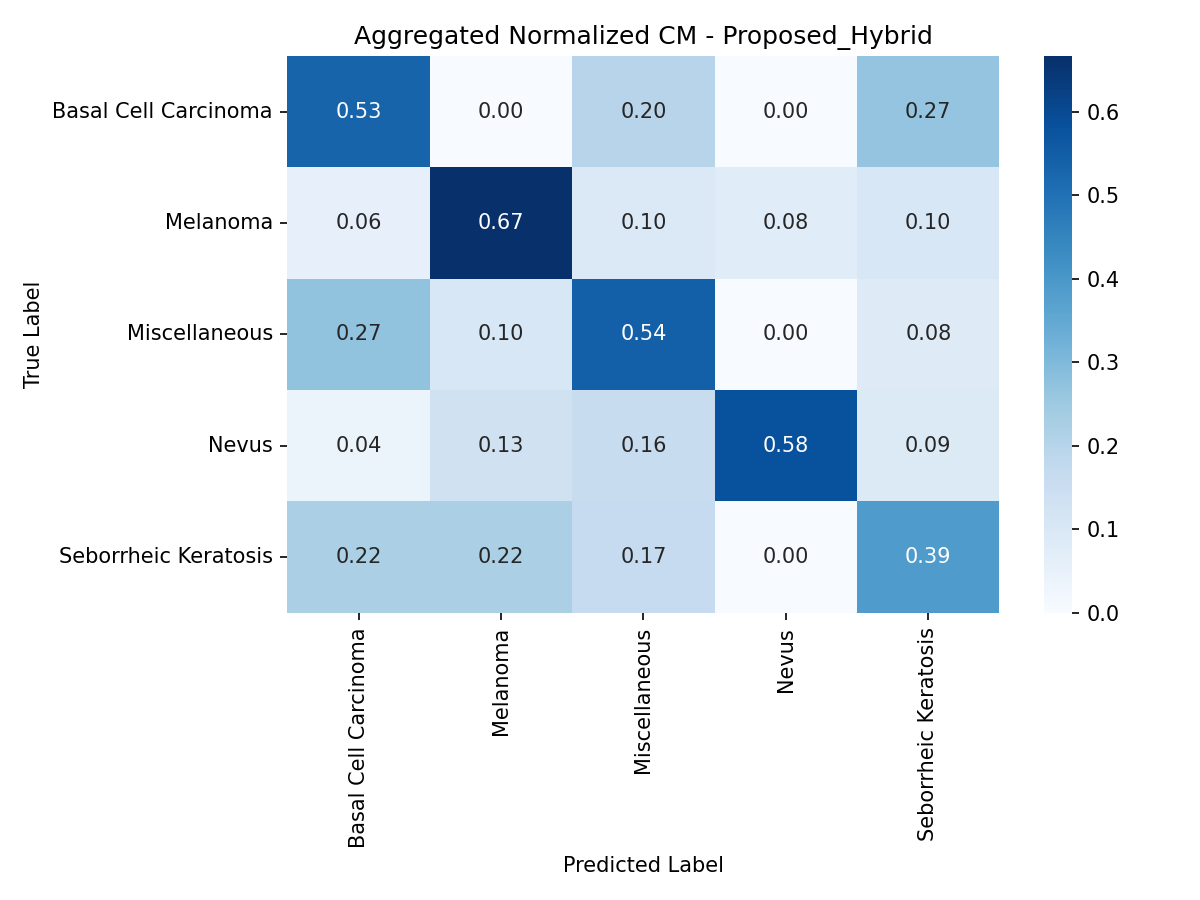
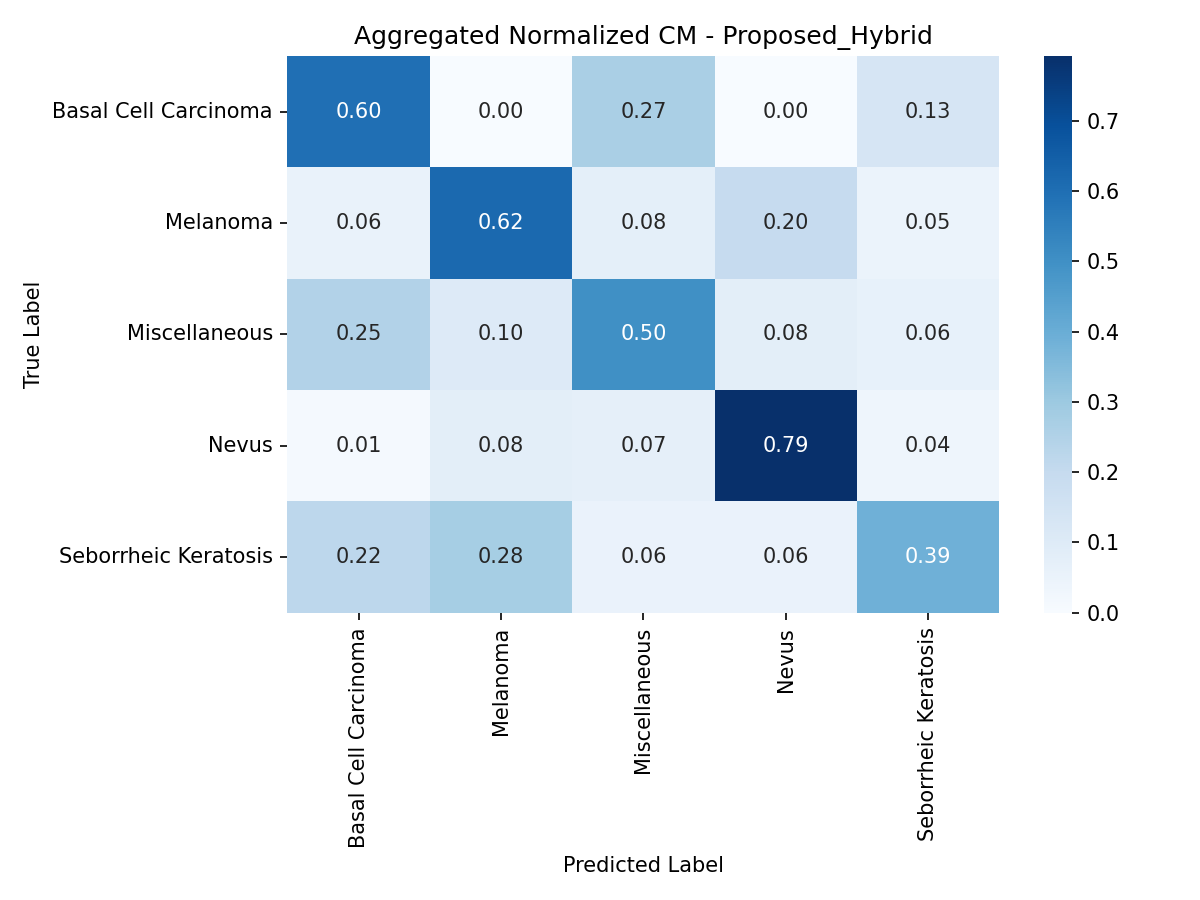
b

diff --git a/src/run_intervention.py b/src/run_intervention.py
@@ -25,7 +25,9 @@ def evaluate_intervention(model, data_loader, device):
             labels = batch['label_disease'].numpy()
             
             # Nhãn Concept "vàng" (Ground truth) được coi như Bác sĩ khám chuẩn 100%
-            doctor_concepts = batch['concept_labels'].to(device) 
+            # ÁP DỤNG LABEL SMOOTHING: Thay nhãn cứng (1/0) bằng nhãn mềm (0.95/0.05) để chống sốc phân phối
+            doctor_concepts_hard = batch['concept_labels'].to(device).float()
+            doctor_concepts = torch.where(doctor_concepts_hard == 1.0, torch.tensor(0.95).to(device), torch.tensor(0.05).to(device))
             
             # KỊCH BẢN 1: AI tự chẩn đoán toàn bộ
             logits_ai, _ = model(clinic_img, derm_img, meta_features=meta_features)

diff --git a/README.md b/README.md
@@ -1,21 +1,50 @@
 # Phân loại Bệnh lý Da liễu Đa phương thức (Multimodal Derm7pt) kết hợp Trí tuệ Nhân tạo Giải thích được (XAI)
 
-
-## Tổng quan dự án
-Dự án áp dụng Học sâu đa phương thức (Multimodal Deep Learning) để chẩn đoán 5 loại bệnh lý da liễu phổ biến từ bộ dữ liệu Derm7pt. Hệ thống sử dụng kiến trúc lai (Hybrid/Multitask) kết hợp 3 luồng thông tin:
+## 📌 Tổng quan dự án
+Dự án áp dụng Học sâu đa phương thức (Multimodal Deep Learning) để chẩn đoán 5 nhóm bệnh lý da liễu phổ biến từ bộ dữ liệu Derm7pt. Hệ thống đề xuất kiến trúc **Hybrid Concept Bottleneck Model (Hybrid CBM)** kết hợp 3 luồng thông tin:
 * **Ảnh lâm sàng (Clinical Images)**
 * **Ảnh nội soi da (Dermoscopy Images)**
-* **Dữ liệu nhân khẩu học (Metadata)**: Được chuẩn hóa nghiêm ngặt qua 14 chiều dữ liệu để ngăn chặn nhiễu.
+* **Dữ liệu nhân khẩu học (Dynamic Metadata)**: Số chiều động được mã hóa tự động để cung cấp đặc trưng bổ trợ thiết yếu.
 
-Dự án tích hợp các phương pháp Trí tuệ Nhân tạo Giải thích được (Explainable AI - XAI) thông qua **Grad-CAM** và kỹ thuật **Concept Intervention** (Can thiệp khái niệm lâm sàng) nhằm nâng cao độ tin cậy trong y tế.
+Dự án tích hợp XAI (Grad-CAM) và kỹ thuật Concept Intervention (Can thiệp khái niệm) nhằm phơi bày hiện tượng học đường tắt (Shortcut Learning) và đề xuất giải pháp Sequential CBM an toàn cho tương tác Y tế.
 
-## Tính năng Cốt lõi (MLOps Standard)
-* **Chia tách dữ liệu an toàn (Data Splitting):** Phân chia tập dữ liệu nghiêm ngặt theo ID Bệnh nhân (Case-level grouped split) để ngăn chặn tuyệt đối hiện tượng rò rỉ dữ liệu (Data Leakage - Chuẩn P0).
-* **Mô hình Khái niệm Chuỗi (Sequential CBM):** Hỗ trợ Bác sĩ can thiệp (human-in-the-loop) vào các khái niệm lâm sàng một cách an toàn để cải thiện độ chính xác chẩn đoán.
-* **Đánh giá Khách quan (Robust Evaluation):** Tự động hóa quá trình huấn luyện và kiểm thử với 3 hạt giống ngẫu nhiên (3-seed automation) để đảm bảo độ tin cậy của các chỉ số thống kê (Mean ± SD).
+## ⚖ Tính năng Cốt lõi
+* **Chia tách dữ liệu nhóm (GroupShuffleSplit):** Phân chia tập dữ liệu nghiêm ngặt theo ID Bệnh nhân (Case-level grouped split), đảm bảo phân bố lớp cân bằng và ngăn chặn rò rỉ dữ liệu giữa các tập Train/Val/Test.
+* **Đánh giá Khách quan (Robust Evaluation):** Tự động hóa quá trình huấn luyện 21 mô hình (7 cấu hình × 3 hạt giống ngẫu nhiên 42, 100, 2026) đảm bảo độ tin cậy của thống kê (Mean ± SD).
+* **Minh bạch hóa Quyết định:** Trực quan hóa bản đồ nhiệt Grad-CAM, giải thích nguyên nhân dự đoán thông qua các vật thể nhiễu bối cảnh.
 
-## Cài đặt môi trường
-Đảm bảo máy tính của bạn đã cài đặt Python 3.10+. Khởi tạo môi trường ảo và chạy lệnh sau để tải mã nguồn và cài đặt thư viện:
+## 📊 Kết quả Thực nghiệm (Test Set)
+
+### 1. Đánh giá Mô hình Đa phương thức (Mean ± SD trên 3 Seeds)
+Mô hình `Proposed_Hybrid` (với trọng số tối ưu $\alpha = 3.0$ và Early Stopping) vượt trội hoàn toàn so với các kiến trúc Baseline.
+
+| Model | Accuracy | Macro F1 | Macro Precision | Macro Recall | Specificity | AUROC |
+|:---|:---|:---|:---|:---|:---|:---|
+| B1_Clinical_Only | 0.4101 ± 0.0783 | 0.2852 ± 0.0328 | 0.3524 ± 0.0290 | 0.3618 ± 0.0105 | 0.8575 ± 0.0111 | 0.7227 ± 0.0233 |
+| B2_Derm_Only | 0.6864 ± 0.0541 | 0.5545 ± 0.0699 | 0.5251 ± 0.0571 | 0.6516 ± 0.0690 | 0.9198 ± 0.0101 | 0.8595 ± 0.0241 |
+| B4_Dual_NoMeta | 0.6579 ± 0.0246 | 0.4711 ± 0.0238 | 0.4623 ± 0.0158 | 0.5165 ± 0.0157 | 0.9109 ± 0.0030 | 0.8704 ± 0.0174 |
+| B5_Dual_Metadata| 0.6601 ± 0.0447 | 0.5106 ± 0.0169 | 0.4887 ± 0.0173 | 0.5838 ± 0.0471 | 0.9052 ± 0.0059 | 0.8727 ± 0.0041 |
+| B6_PureCBM | 0.5504 ± 0.0792 | 0.4198 ± 0.0405 | 0.4246 ± 0.0181 | 0.5091 ± 0.0700 | 0.8904 ± 0.0179 | 0.7951 ± 0.0248 |
+| **Proposed_Hybrid**| **0.6996 ± 0.0276**| **0.5206 ± 0.0252**| **0.5208 ± 0.0444**| **0.5801 ± 0.0184**| **0.9167 ± 0.0029**| **0.8829 ± 0.0087**|
+
+*(Ảnh minh họa: Ma trận nhầm lẫn của Proposed_Hybrid)*
+![Confusion Matrix](figures/image_dd33d5.png)
+
+### 2. Can thiệp Khái niệm Lâm sàng (Concept Intervention)
+| Model | Macro F1 (AI Only) | Macro F1 (With Doctor) | Absolute Improvement | Phân tích khoa học |
+|:---|:---|:---|:---|:---|
+| B6_PureCBM | 0.4198 ± 0.0405 | 0.2672 ± 0.0404 | - 0.1526 | Rò rỉ thông tin (Information Leakage) |
+| Proposed_Hybrid | 0.5206 ± 0.0252 | 0.5206 ± 0.0252 | + 0.0000 | Học đường tắt (Shortcut Learning) |
+| **Sequential CBM** | **0.4115** | **0.4237** | **+ 0.0122** | **Tương tác an toàn (Safe Interaction)** |
+
+### 3. Phân tích XAI (Grad-CAM)
+*Bản đồ nhiệt Grad-CAM phơi bày hiện tượng học đường tắt của mô hình kiến trúc lai khi tập trung vào chiếc thước kẻ thay vì vết thương Y khoa (Nguyên nhân khiến mức độ can thiệp bằng +0.0000).*
+![XAI Failure Case](figures/image_dcca21.jpg)
+![XAI Success Case](figures/image_dcc660.jpg)
+
+
+## ⚙ Cài đặt môi trường
+Đảm bảo máy tính đã cài đặt Python 3.10+.
 ```bash
 git clone [https://github.com/VanLuan05/RIVF2026_Derm7pt_Project.git](https://github.com/VanLuan05/RIVF2026_Derm7pt_Project.git)
 cd RIVF2026_Derm7pt_Project
@@ -25,14 +54,18 @@ pip install -r requirements.txt
 RIVF2026_Derm7pt_Project/
 │
 ├── data/                  # Chứa dữ liệu ảnh gốc và file phân chia CSV
-├── outputs/               # Nơi lưu trữ trọng số mô hình (.pth), file CSV và biểu đồ XAI
+├── figures/               # Lưu trữ ảnh Grad-CAM và Confusion Matrix hiển thị trên README
+├── outputs/               # Nơi lưu trữ trọng số mô hình (.pth) và Encoder
+├── results/               # Chứa các file Markdown báo cáo tự động (.md)
 ├── src/                   # Mã nguồn chính
-│   ├── data/              # Các script tiền xử lý dữ liệu và DataLoader (prepare_data.py, dataset.py)
+│   ├── data/              # Các script tiền xử lý dữ liệu (prepare_data.py, dataset.py)
 │   ├── models/            # Kiến trúc mạng Nơ-ron (MultimodalDermModel)
-│   ├── run_ablation.py    # Kịch bản tự động huấn luyện hàng loạt (B1-B5, P2)
+│   ├── run_ablation.py    # Huấn luyện tự động hàng loạt mô hình Baseline
+│   ├── train_final_hybrid.py # Huấn luyện Proposed_Hybrid với Early Stopping
 │   ├── run_evaluation.py  # Script chấm điểm và trích xuất chỉ số tự động
-│   ├── sequential_cbm.py  # Kịch bản Bác sĩ can thiệp (Sequential CBM)
+│   ├── run_intervention.py # Kịch bản Bác sĩ can thiệp (Nhãn mềm)
 │   └── gradcam_vis.py     # Trích xuất ảnh trực quan hóa Grad-CAM
+
 
 ** Hướng dẫn Chạy Thực nghiệm (Reproducibility Pipeline)
 -- Lưu ý: Các tập lệnh cũ (như src.main, src.evaluate, src.visualize) đã được nâng cấp thành luồng tự động hóa. Vui lòng chạy các lệnh dưới đây theo đúng thứ tự để đảm bảo tính tái lập của hệ thống.
@@ -40,15 +73,16 @@ RIVF2026_Derm7pt_Project/
 Bước 1: Tiền xử lý Dữ liệu & Mã hóa Metadata
 -- Quá trình này sẽ chia tập dữ liệu an toàn và đúc khuôn OneHotEncoder trên tập Train để tránh xô lệch nhãn.
 #  python -m src.data.prepare_data
-Bước 2: Huấn luyện Tự động Hàng loạt (Ablation Training)
--- Tự động huấn luyện các mô hình baseline từ B1 đến B5 và mô hình Master_P2 qua 3 seed ngẫu nhiên (42, 100, 2026).
+Bước 2: Huấn luyện Baseline (B1-B6)
+-- Huấn luyện các mô hình tham chiếu qua 3 hạt giống (42, 100, 2026).
 #  python -m src.run_ablation
-Bước 3: Đánh giá & Trích xuất Chỉ số (Evaluation)
--- Chấm điểm 21 phiên bản (7 cấu hình × 3 seeds) mô hình trên tập Test độc lập và tự động xuất báo cáo tổng hợp ra file outputs/final_results_summary.csv.
+Bước 3: Huấn luyện model cuối (Proposed_Hybrid)
+-- Áp dụng điểm vàng siêu tham số $\alpha = 3.0$ và kỹ thuật Early Stopping trên tập Validation.
+# python -m src.train_final_hybrid
+Bước 4: Đánh giá & Bác sĩ can thiệp
+-- Trích xuất báo cáo F1/AUROC, ma trận nhầm lẫn và mô phỏng tương tác Human-in-the-loop bằng nhãn mềm.
 #  python -m src.run_evaluation
-Bước 4: Bác sĩ Can thiệp Lâm sàng (Sequential CBM)
--- Đo lường sự gia tăng F1-Score khi có sự hợp tác giữa AI và Bác sĩ thông qua mô hình chuỗi độc lập.
-#  python -m src.sequential_cbm
-Bước 5: Trích xuất Ảnh Trực quan Grad-CAM (XAI)
--- Quét qua tập Test để tạo bản đồ nhiệt (Heatmap) trực quan hóa, trích xuất các ca AI dự đoán đúng (Success) và dự đoán sai (Failure).
+#  python -m src.run_intervention
+Bước 5: Trích xuất Ảnh Trực quan (XAI)
+-- Tạo bản đồ nhiệt Grad-CAM giải thích quyết định của mạng nơ-ron.
 #  python -m src.gradcam_vis

diff --git a/results/final_results.md b/results/final_results.md
@@ -8,4 +8,4 @@
 | B4_Dual_NoMeta   | 0.6579 ± 0.0246 | 0.4711 ± 0.0238 | 0.4623 ± 0.0158   | 0.5165 ± 0.0157 | 0.9109 ± 0.0030     | 0.8704 ± 0.0174     |
 | B5_Dual_Metadata | 0.6601 ± 0.0447 | 0.5106 ± 0.0169 | 0.4887 ± 0.0173   | 0.5838 ± 0.0471 | 0.9052 ± 0.0059     | 0.8727 ± 0.0041     |
 | B6_PureCBM       | 0.5504 ± 0.0792 | 0.4198 ± 0.0405 | 0.4246 ± 0.0181   | 0.5091 ± 0.0700 | 0.8904 ± 0.0179     | 0.7951 ± 0.0248     |
-| Proposed_Hybrid  | 0.5877 ± 0.0242 | 0.4447 ± 0.0204 | 0.4426 ± 0.0162   | 0.5424 ± 0.0410 | 0.9022 ± 0.0046     | 0.8373 ± 0.0022     |
+| Proposed_Hybrid  | 0.6996 ± 0.0276 | 0.5206 ± 0.0252 | 0.5208 ± 0.0444   | 0.5801 ± 0.0184 | 0.9167 ± 0.0029     | 0.8829 ± 0.0087     |

diff --git a/results/intervention_results.md b/results/intervention_results.md
@@ -2,5 +2,5 @@
 
 | Model           | Macro F1 (AI Only)   | Macro F1 (With Doctor)   | Absolute Improvement   |
 |:----------------|:---------------------|:-------------------------|:-----------------------|
-| B6_PureCBM      | 0.4198 ± 0.0405      | 0.2707 ± 0.0428          | +-0.1491               |
-| Proposed_Hybrid | 0.4447 ± 0.0204      | 0.4470 ± 0.0218          | +0.0023                |
+| B6_PureCBM      | 0.4198 ± 0.0405      | 0.2672 ± 0.0404          | +-0.1526               |
+| Proposed_Hybrid | 0.5206 ± 0.0252      | 0.5206 ± 0.0252          | +0.0000                |
